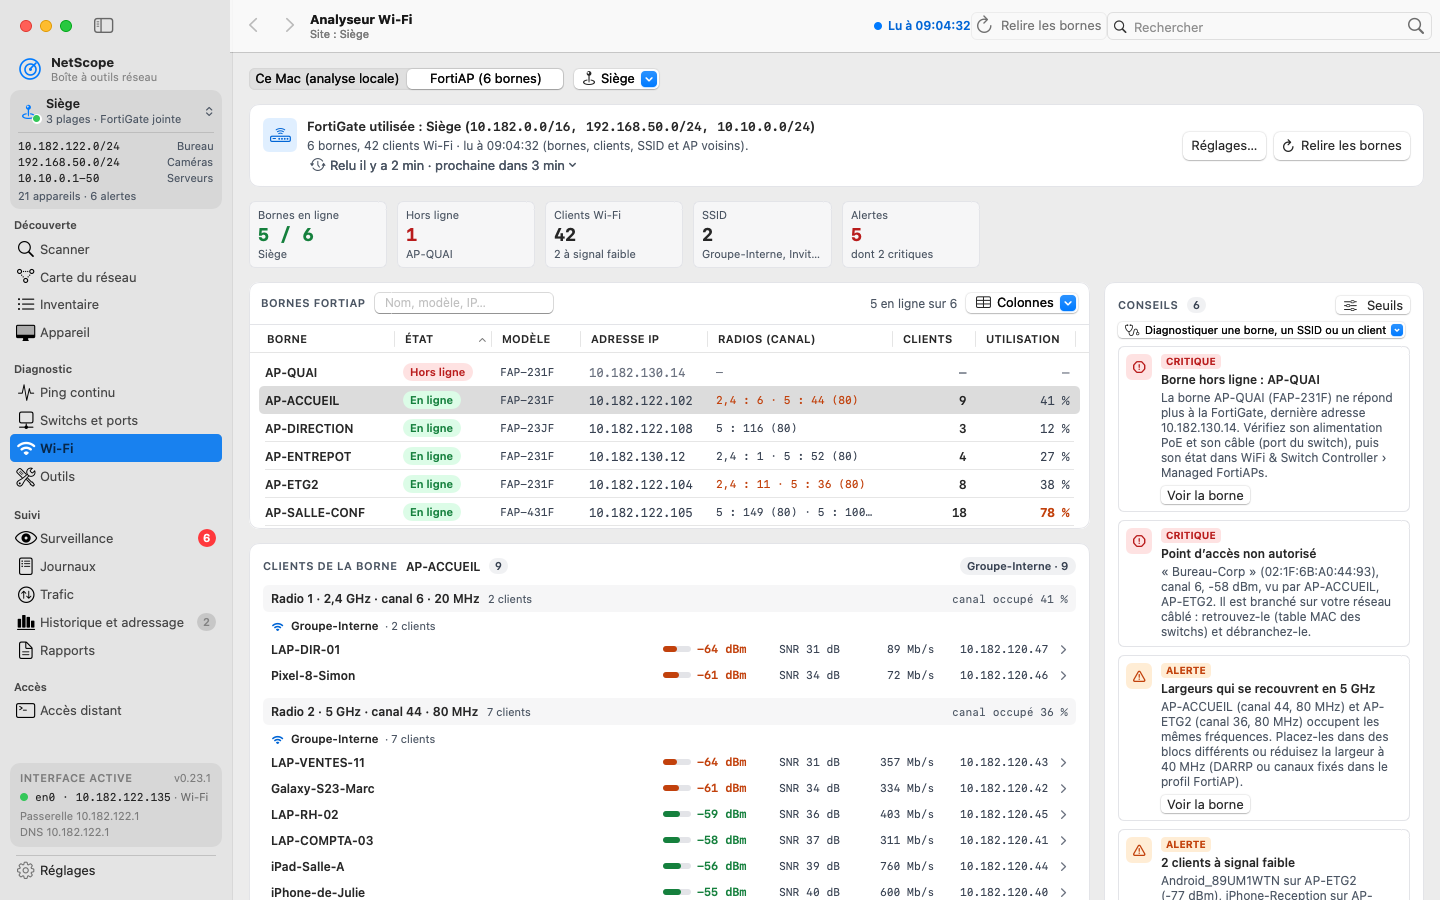
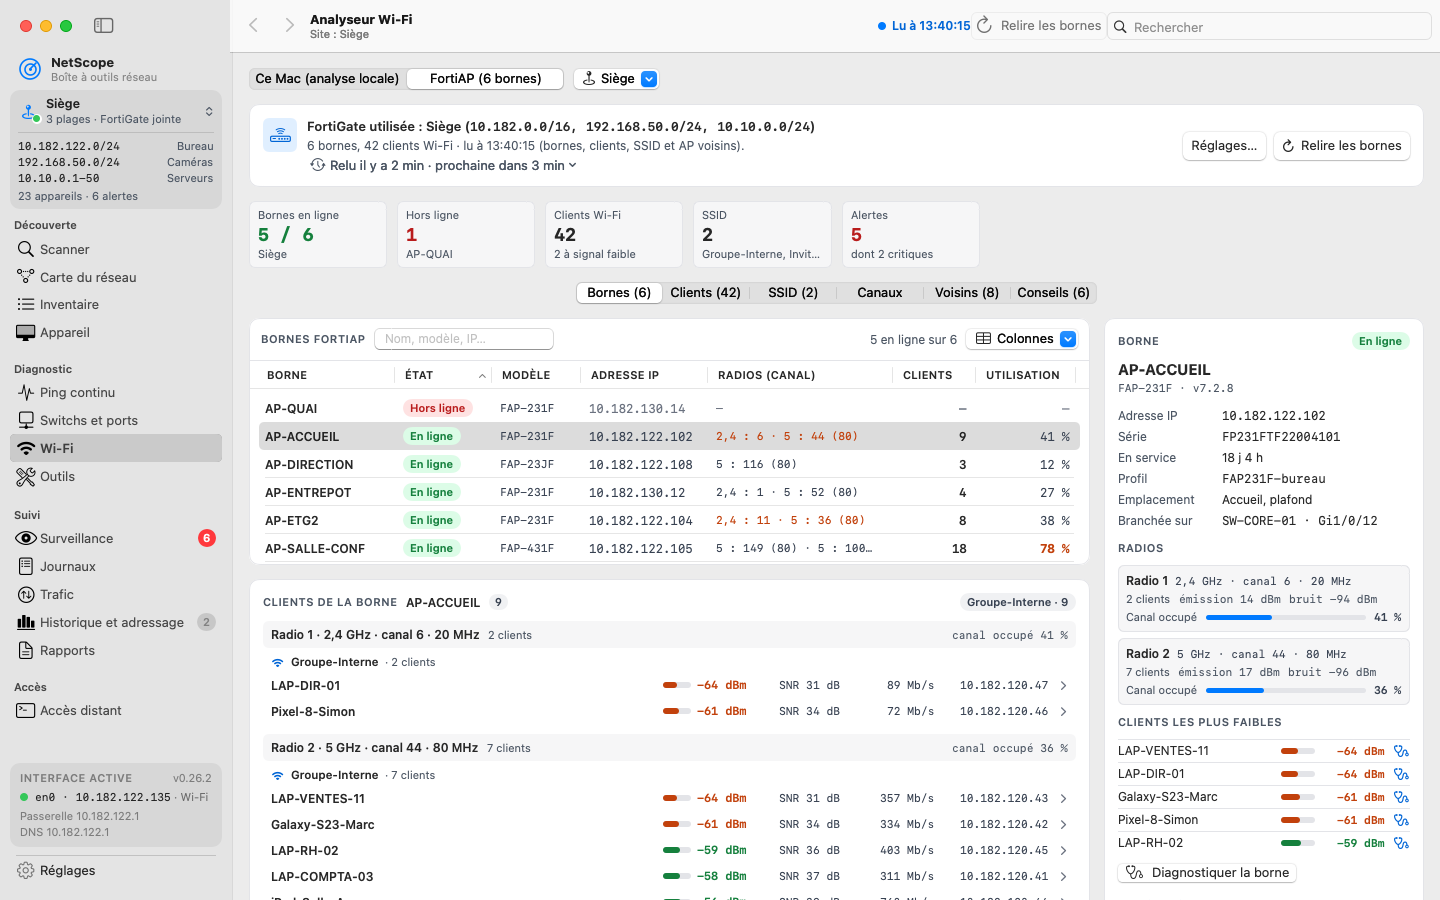
Wi-Fi › FortiAP en onglets : Bornes, Clients, SSID, Canaux, Voisins, Conseils (note 80)

diff --git a/Sources/NetScope/Screens/Wifi/FortiAPTabs.swift b/Sources/NetScope/Screens/Wifi/FortiAPTabs.swift
@@ -1,0 +1,177 @@
+import NetScopeCore
+import SwiftUI
+
+// Note 80 : partie FortiAP de l'écran Wi-Fi en onglets, sous le bandeau de la FortiGate et les
+// tuiles : Bornes, Clients, SSID, Canaux, Voisins, Conseils. Un clic sur une borne (Clients, Canaux,
+// Conseils) ouvre l'onglet Bornes sur elle ; la fiche d'un client s'ouvre dans l'onglet Clients ;
+// l'onglet choisi est retenu (FortiAPStore.tab). Captures : NETSCOPE_WIFI_ONGLET=bornes|clients|ssid|
+// canaux|voisins|conseils.
+
+/// Onglet de la partie FortiAP.
+enum FortiAPTab: String, CaseIterable, Identifiable {
+    case bornes, clients, ssid, canaux, voisins, conseils
+
+    var id: String { rawValue }
+
+    var label: String {
+        switch self {
+        case .bornes: return "Bornes"
+        case .clients: return "Clients"
+        case .ssid: return "SSID"
+        case .canaux: return "Canaux"
+        case .voisins: return "Voisins"
+        case .conseils: return "Conseils"
+        }
+    }
+
+    /// Onglet d'une valeur de NETSCOPE_WIFI_ONGLET (« conseils », « Clients »…).
+    static func named(_ text: String) -> FortiAPTab? {
+        let folded = text.lowercased().folding(options: .diacriticInsensitive, locale: nil)
+        return allCases.first { $0.rawValue == folded || $0.label.lowercased() == folded }
+    }
+}
+
+/// Barre d'onglets : contrôle segmenté natif, avec le nombre d'éléments de chaque onglet.
+struct FortiAPTabBar: View {
+    @ObservedObject private var store = FortiAPStore.shared
+
+    var body: some View {
+        HStack {
+            Spacer(minLength: 0)
+            Picker("Onglet", selection: Binding(get: { store.tab }, set: { select($0) })) {
+                ForEach(FortiAPTab.allCases) { tab in Text(title(tab)).tag(tab) }
+            }
+            .labelsHidden()
+            .pickerStyle(.segmented)
+            .fixedSize()
+            .help("Bornes, clients, SSID, carte des canaux, AP voisins et conseils")
+            Spacer(minLength: 0)
+        }
+    }
+
+    private func select(_ tab: FortiAPTab) {
+        // Quitter l'onglet Clients ferme la fiche ouverte (l'onglet Clients revient à la liste).
+        if tab != .clients || store.tab == .clients { store.closeClient() }
+        store.tab = tab
+    }
+
+    private func title(_ tab: FortiAPTab) -> String {
+        let o = store.shownOverview
+        switch tab {
+        case .bornes: return "Bornes (\(o.aps.count))"
+        case .clients: return "Clients (\(o.clients.count))"
+        case .ssid: return "SSID (\(o.distinctSSIDs.count))"
+        case .canaux: return "Canaux"
+        case .voisins: return "Voisins (\(o.rogues.count))"
+        case .conseils: return "Conseils (\(store.shownDiagnosis.advice.count))"
+        }
+    }
+}
+
+/// Contenu de l'onglet choisi.
+struct FortiAPTabContent: View {
+    @ObservedObject private var store = FortiAPStore.shared
+    @Binding var selectedAP: FortiManagedAP.ID?
+    @Binding var band: WifiBand
+
+    var body: some View {
+        switch store.tab {
+        case .bornes:
+            SidePanelSplit(sideWidth: 320, collapse: .below) {
+                VStack(spacing: 14) {
+                    FortiAPTable(selection: $selectedAP)
+                    // Note 46 : clients de la borne choisie, par radio et par SSID.
+                    FortiAPClientsOfAP(apID: selectedAP)
+                }
+            } side: {
+                FortiAPDetailPanel(apID: selectedAP)
+            }
+        case .clients:
+            if let client = store.openClient {
+                // Note 46 : fiche complète du client (‹ ramène à la borne ou au SSID d'origine).
+                FortiAPClientDetailView(client: client)
+            } else {
+                FortiAPClientTable()
+            }
+        case .ssid:
+            VStack(spacing: 14) {
+                FortiAPSSIDTable()
+                FortiAPSSIDGroupsPanel()
+            }
+        case .canaux:
+            FortiAPChannelMap(band: $band, selectedAP: $selectedAP)
+        case .voisins:
+            FortiAPRogueTable()
+        case .conseils:
+            FortiAPAdvicePanel(selectedAP: $selectedAP, band: $band)
+        }
+    }
+}
+
+/// Onglet SSID : clients et bornes de chaque SSID (site par site), avec un lien vers ses clients.
+struct FortiAPSSIDGroupsPanel: View {
+    @EnvironmentObject private var state: AppState
+    @ObservedObject private var store = FortiAPStore.shared
+
+    var body: some View {
+        let o = store.shownOverview
+        let groups = FortiWifiClientGroups.bySSID(o)
+        Panel(padding: 14) {
+            VStack(alignment: .leading, spacing: 8) {
+                HStack(spacing: 8) {
+                    WifiHeading("Clients et bornes par SSID")
+                    Spacer(minLength: 0)
+                    Text("\(o.clients.count) client\(o.clients.count > 1 ? "s" : "")").font(Theme.small).foregroundStyle(Theme.textSecondary)
+                }
+                if groups.isEmpty {
+                    Text("Aucun client Wi-Fi associé.").font(Theme.small).foregroundStyle(Theme.textSecondary)
+                } else {
+                    VStack(spacing: 0) {
+                        ForEach(groups) { group in row(group, multiSite: o.isMultiSite, total: max(1, o.clients.count)) }
+                    }
+                }
+            }
+        }
+    }
+
+    private func row(_ group: FortiWifiSSIDGroup, multiSite: Bool, total: Int) -> some View {
+        let weak = group.clients.filter(store.isWeak).count
+        return HStack(alignment: .center, spacing: 12) {
+            VStack(alignment: .leading, spacing: 2) {
+                HStack(spacing: 6) {
+                    Image(systemName: "wifi").font(.system(size: 11, weight: .semibold)).foregroundStyle(Theme.accentStrong)
+                    Text(group.ssid).font(.system(size: 12.5, weight: .semibold)).lineLimit(1)
+                    if multiSite { WifiPill(text: group.site, size: 10) }
+                    if let config = group.config { WifiPill(text: config.securityLabel, size: 10) }
+                    if let vlan = group.config?.vlan { Text("VLAN \(vlan)").font(Theme.mono(11)).foregroundStyle(Theme.textSecondary) }
+                }
+                Text(group.apNames.isEmpty ? "Aucune borne ne sert de client" : "Bornes\u{00A0}: " + group.apNames.joined(separator: ", "))
+                    .font(Theme.caption).foregroundStyle(Theme.textSecondary).lineLimit(2)
+                    .fixedSize(horizontal: false, vertical: true)
+            }
+            .frame(maxWidth: .infinity, alignment: .leading)
+            VStack(alignment: .trailing, spacing: 2) {
+                Text("\(group.count) client\(group.count > 1 ? "s" : "")").font(Theme.mono(12, weight: .semibold))
+                Text(group.bandsLabel + (weak > 0 ? " · \(weak) faible\(weak > 1 ? "s" : "")" : ""))
+                    .font(Theme.caption).foregroundStyle(weak > 0 ? Theme.warning : Theme.textSecondary).lineLimit(1)
+            }
+            .fixedSize()
+            GeometryReader { geo in
+                ZStack(alignment: .leading) {
+                    Capsule().fill(Theme.border)
+                    Capsule().fill(Theme.accent).frame(width: geo.size.width * CGFloat(group.count) / CGFloat(total))
+                }
+            }
+            .frame(width: 80, height: 5)
+            Button("Voir les clients") {
+                state.navigate(NavDestination(.wifi, focus: .wifiSSID(group.id), sites: .include(store.siteKey(forLabel: group.site))))
+            }
+            .buttonStyle(.bordered)
+            .controlSize(.small)
+            .disabled(group.count == 0)
+            .help("Ouvre l’onglet Clients, regroupé par SSID, sur «\u{00A0}\(group.ssid)\u{00A0}»")
+        }
+        .padding(.vertical, 8)
+        .overlay(alignment: .top) { Rectangle().fill(Theme.border).frame(height: 1) }
+    }
+}

diff --git a/Sources/NetScope/Screens/Wifi/FortiAPView.swift b/Sources/NetScope/Screens/Wifi/FortiAPView.swift
@@ -86,27 +86,12 @@ struct FortiAPView: View {
                 } else {
                     FortiAPBanner()
                 }
-                if let client = store.openClient {
-                    // Note 46 : fiche complète du client (‹ ramène à la borne ou au SSID d'origine).
-                    FortiAPClientDetailView(client: client)
-                } else if !store.shownOverview.isEmpty {
-                    tiles
-                    SidePanelSplit(sideWidth: 320, collapse: .below) {
-                        VStack(spacing: 14) {
-                            FortiAPTable(selection: $selectedAP)
-                            // Note 46 : clients de la borne choisie, par radio et par SSID.
-                            FortiAPClientsOfAP(apID: selectedAP)
-                            FortiAPChannelMap(band: $band, selectedAP: $selectedAP)
-                            FortiAPClientTable()
-                            FortiAPSSIDTable()
-                            FortiAPRogueTable()
-                        }
-                    } side: {
-                        VStack(spacing: 14) {
-                            FortiAPAdvicePanel(selectedAP: $selectedAP, band: $band)
-                            FortiAPDetailPanel(apID: selectedAP)
-                        }
-                    }
+                if !store.shownOverview.isEmpty || store.openClient != nil {
+                    // Note 80 : tuiles de résumé, puis un onglet par sujet (Bornes, Clients, SSID,
+                    // Canaux, Voisins, Conseils).
+                    if !store.shownOverview.isEmpty { tiles }
+                    FortiAPTabBar()
+                    FortiAPTabContent(selectedAP: $selectedAP, band: $band)
                 } else if store.scopeKeys == nil {
                     noData
                 }
@@ -134,6 +119,8 @@ struct FortiAPView: View {
         if let id = store.shownAPID(for: wanted) {
             selectedAP = id
             if let b = store.focusBand { band = b }
+            // Note 80 : une borne demandée (fiche d'un appareil, Retour, lien) ouvre l'onglet Bornes.
+            store.tab = .bornes
         }
         store.focusAP = nil
         store.focusBand = nil
@@ -173,24 +160,33 @@ struct FortiAPView: View {
         let critical = d.advice.filter { $0.severity == .critique }.count
         return LazyVGrid(columns: [GridItem(.adaptive(minimum: 128), spacing: 10)], spacing: 10) {
             tile("Bornes en ligne", "\(o.onlineAPs.count) / \(o.aps.count)",
-                 sub: o.isMultiSite ? "\(o.sites.count) sites" : (o.sites.first ?? ""), color: Theme.success)
+                 sub: o.isMultiSite ? "\(o.sites.count) sites" : (o.sites.first ?? ""), color: Theme.success, tab: .bornes)
             tile("Hors ligne", "\(o.offlineAPs.count)", sub: o.offlineAPs.first.map { $0.name + (o.offlineAPs.count > 1 ? "…" : "") } ?? "aucune",
-                 color: o.offlineAPs.isEmpty ? Theme.text : Theme.critical)
+                 color: o.offlineAPs.isEmpty ? Theme.text : Theme.critical, tab: .bornes)
             tile("Clients Wi-Fi", "\(o.clients.count)",
-                 sub: "\(d.weakClients.count) à signal faible", color: Theme.text)
-            tile("SSID", "\(o.distinctSSIDs.count)", sub: o.distinctSSIDs.prefix(2).joined(separator: ", "), color: Theme.text)
+                 sub: "\(d.weakClients.count) à signal faible", color: Theme.text, tab: .clients)
+            tile("SSID", "\(o.distinctSSIDs.count)", sub: o.distinctSSIDs.prefix(2).joined(separator: ", "), color: Theme.text, tab: .ssid)
             tile("Alertes", "\(d.alertCount)", sub: critical > 0 ? "dont \(critical) critique\(critical > 1 ? "s" : "")" : "aucune critique",
-                 color: critical > 0 ? Theme.critical : (d.alertCount > 0 ? Theme.warning : Theme.success))
+                 color: critical > 0 ? Theme.critical : (d.alertCount > 0 ? Theme.warning : Theme.success), tab: .conseils)
         }
     }
 
-    private func tile(_ title: String, _ value: String, sub: String, color: Color) -> some View {
-        VStack(alignment: .leading, spacing: 2) {
-            Text(title).font(Theme.caption).foregroundStyle(Theme.textSecondary).lineLimit(1)
-            Text(value).font(Theme.mono(18, weight: .bold)).foregroundStyle(color).lineLimit(1)
-            Text(sub).font(Theme.caption).foregroundStyle(Theme.textSecondary).lineLimit(1)
+    /// Note 80 : un clic sur une tuile ouvre l'onglet correspondant.
+    private func tile(_ title: String, _ value: String, sub: String, color: Color, tab: FortiAPTab) -> some View {
+        Button {
+            store.closeClient()
+            store.tab = tab
+        } label: {
+            VStack(alignment: .leading, spacing: 2) {
+                Text(title).font(Theme.caption).foregroundStyle(Theme.textSecondary).lineLimit(1)
+                Text(value).font(Theme.mono(18, weight: .bold)).foregroundStyle(color).lineLimit(1)
+                Text(sub).font(Theme.caption).foregroundStyle(Theme.textSecondary).lineLimit(1)
+            }
+            .modifier(WifiTileStyle())
+            .contentShape(Rectangle())
         }
-        .modifier(WifiTileStyle())
+        .buttonStyle(.plain)
+        .help("Ouvrir l’onglet \(tab.label)")
     }
 }
 
@@ -324,7 +320,10 @@ struct FortiAPAdvicePanel: View {
                         .help("Seuils du signal faible et de la surcharge")
                 }
                 diagnoseMenu
-                ForEach(advice) { item in card(item) }
+                // Note 80 : onglet Conseils sur toute la largeur, cartes en colonnes.
+                LazyVGrid(columns: [GridItem(.adaptive(minimum: 320), spacing: 10, alignment: .top)], alignment: .leading, spacing: 10) {
+                    ForEach(advice) { item in card(item) }
+                }
             }
         }
     }
@@ -385,6 +384,8 @@ struct FortiAPAdvicePanel: View {
                     Button("Voir la borne") {
                         selectedAP = ap.id
                         if let b = item.band { band = b }
+                        // Note 80 : la borne s'ouvre dans l'onglet Bornes.
+                        store.tab = .bornes
                     }
                     .buttonStyle(.bordered)
                     .controlSize(.small)

diff --git a/Sources/NetScope/Screens/Wifi/FortiAPStore.swift b/Sources/NetScope/Screens/Wifi/FortiAPStore.swift
@@ -12,6 +12,7 @@ final class FortiAPStore: ObservableObject {
     static let shared = FortiAPStore()
 
     private static let thresholdsKey = "NetScope.fortiap.seuils"
+    private static let tabKey = "NetScope.fortiap.onglet"
 
     /// Lectures réussies de la dernière relecture, une par site.
     @Published private(set) var sites: [FortiWifiSiteReport] = []
@@ -47,6 +48,14 @@ final class FortiAPStore: ObservableObject {
     var viewedAP: FortiManagedAP.ID?
     /// Demande d'ouvrir la partie FortiAP de l'écran Wi-Fi (fiche d'un client, SSID).
     @Published var openFortiAPPart = false
+    /// Note 80 : onglet affiché (Bornes, Clients, SSID, Canaux, Voisins, Conseils), retenu d'une
+    /// visite et d'un lancement à l'autre (captures : NETSCOPE_WIFI_ONGLET).
+    @Published var tab: FortiAPTab = .bornes {
+        didSet {
+            guard tab != oldValue, !isDemo else { return }
+            UserDefaults.standard.set(tab.rawValue, forKey: Self.tabKey)
+        }
+    }
     var viewedSSID: String?
     /// Note 46 : historique du signal des clients, un par site (fichier sites/<site>/wifi-signal.json).
     @Published private(set) var signal = FortiWifiSignalBook()
@@ -67,6 +76,9 @@ final class FortiAPStore: ObservableObject {
 
     init(demo: Bool = Launcher.isDemo || RegEnvironment.isSnapshot) {
         isDemo = demo
+        if !demo, let raw = UserDefaults.standard.string(forKey: Self.tabKey), let saved = FortiAPTab(rawValue: raw) {
+            tab = saved
+        }
         if !demo, let data = UserDefaults.standard.data(forKey: Self.thresholdsKey),
            let saved = try? JSONDecoder().decode(FortiWifiThresholds.self, from: data) {
             thresholds = saved
@@ -173,6 +185,7 @@ final class FortiAPStore: ObservableObject {
     func showClient(_ id: FortiWifiClient.ID) {
         let resolved = client(id: id)?.id ?? id
         openClientID = resolved
+        tab = .clients
         if let c = client(id: resolved), let ap = ap(for: c) { viewedAP = shownAPID(for: ap.id) ?? ap.id }
     }
 
@@ -189,6 +202,7 @@ final class FortiAPStore: ObservableObject {
         clientsBySSID = true
         expandedSSIDs.insert(id)
         viewedSSID = id
+        tab = .clients
     }
 
     /// Ce que montre la partie FortiAP, pour l'historique Retour / Avancer.

diff --git a/Sources/NetScope/Screens/Wifi/FortiAPTables.swift b/Sources/NetScope/Screens/Wifi/FortiAPTables.swift
@@ -583,7 +583,20 @@ struct FortiAPClientTable: View {
                 .customizationID("snr")
 
                 TableColumn(StandardTableHeading("BORNE"), sortUsing: table.sort("borne")) { row in
-                    WifiCell(row.client.apName ?? "—", mono: 11, dimmed: row.client.apName == nil)
+                    // Note 80 : un clic sur la borne ouvre l'onglet Bornes sur elle (Retour ‹ ramène ici).
+                    if let name = row.client.apName, let ap = store.ap(for: row.client) {
+                        Button {
+                            state.navigate(NavDestination(.wifi, focus: .accessPoint(store.shownAPID(for: ap.id) ?? ap.id),
+                                                          sites: .include(store.siteKey(forLabel: ap.site))))
+                        } label: {
+                            Text(name).font(Theme.mono(11)).foregroundStyle(Theme.accentStrong).lineLimit(1).underline()
+                                .frame(height: 20)
+                        }
+                        .buttonStyle(.plain)
+                        .help("Ouvrir la borne \(name) dans l’onglet Bornes")
+                    } else {
+                        WifiCell(row.client.apName ?? "—", mono: 11, dimmed: row.client.apName == nil)
+                    }
                 }
                 .width(min: 80, ideal: 100)
                 .customizationID("borne")

diff --git a/Sources/NetScope/DevTools/FortiAPClientDemo.swift b/Sources/NetScope/DevTools/FortiAPClientDemo.swift
@@ -17,6 +17,7 @@ import NetScopeCore
 /// - NETSCOPE_WIFI_CLIENTS=ssid : section Clients regroupée par SSID, tous les SSID dépliés
 ///   (NETSCOPE_WIFI_SSID=Invités : ce SSID seulement) ;
 /// - NETSCOPE_WIFI_CLIENT=Android_89UM1WTN (nom ou MAC) : fiche complète de ce client ;
+/// - NETSCOPE_WIFI_ONGLET=bornes|clients|ssid|canaux|voisins|conseils : onglet affiché (note 80) ;
 /// - fiche Appareil avec sa section Wi-Fi : NETSCOPE_DEVICE=10.182.122.133 (sans NETSCOPE_WIFI_VUE).
 @MainActor
 extension FortiAPDemo {
@@ -176,6 +177,13 @@ extension FortiAPDemo {
                 if let ap = store.ap(for: client) { store.viewedAP = ap.id }
                 store.showClient(client.id)
             }
+        }
+        // Note 80 : onglet de la partie FortiAP (NETSCOPE_WIFI_ONGLET=bornes|clients|ssid|canaux|voisins|conseils) ;
+        // sans lui, l'onglet suit la variable donnée (Clients pour une fiche ou la vue par SSID).
+        if let wanted = env["NETSCOPE_WIFI_ONGLET"], let tab = FortiAPTab.named(wanted) {
+            store.tab = tab
+        } else if env["NETSCOPE_WIFI_CLIENTS"]?.lowercased() == "ssid" {
+            store.tab = .clients
         }
     }
 }

diff --git a/Sources/NetScope/Screens/Wifi/FortiAPChannelMap.swift b/Sources/NetScope/Screens/Wifi/FortiAPChannelMap.swift
@@ -124,7 +124,8 @@ struct FortiAPChannelMap: View {
                     // Étiquette à côté du bloc (à droite, ou à gauche près du bord droit) : un bloc de
                     // 20 MHz est trop étroit pour son nom.
                     let toLeft = left > width * 0.55
-                    Button { selectedAP = lane.ap.id } label: {
+                    // Note 80 : un clic sur une borne ouvre l'onglet Bornes sur elle.
+                    Button { selectedAP = lane.ap.id; store.tab = .bornes } label: {
                         ZStack {
                             RoundedRectangle(cornerRadius: 4).fill(fill.opacity(selected ? 0.95 : 0.75))
                             RoundedRectangle(cornerRadius: 4).strokeBorder(selected ? Theme.text : Color.clear, lineWidth: 1.5)
